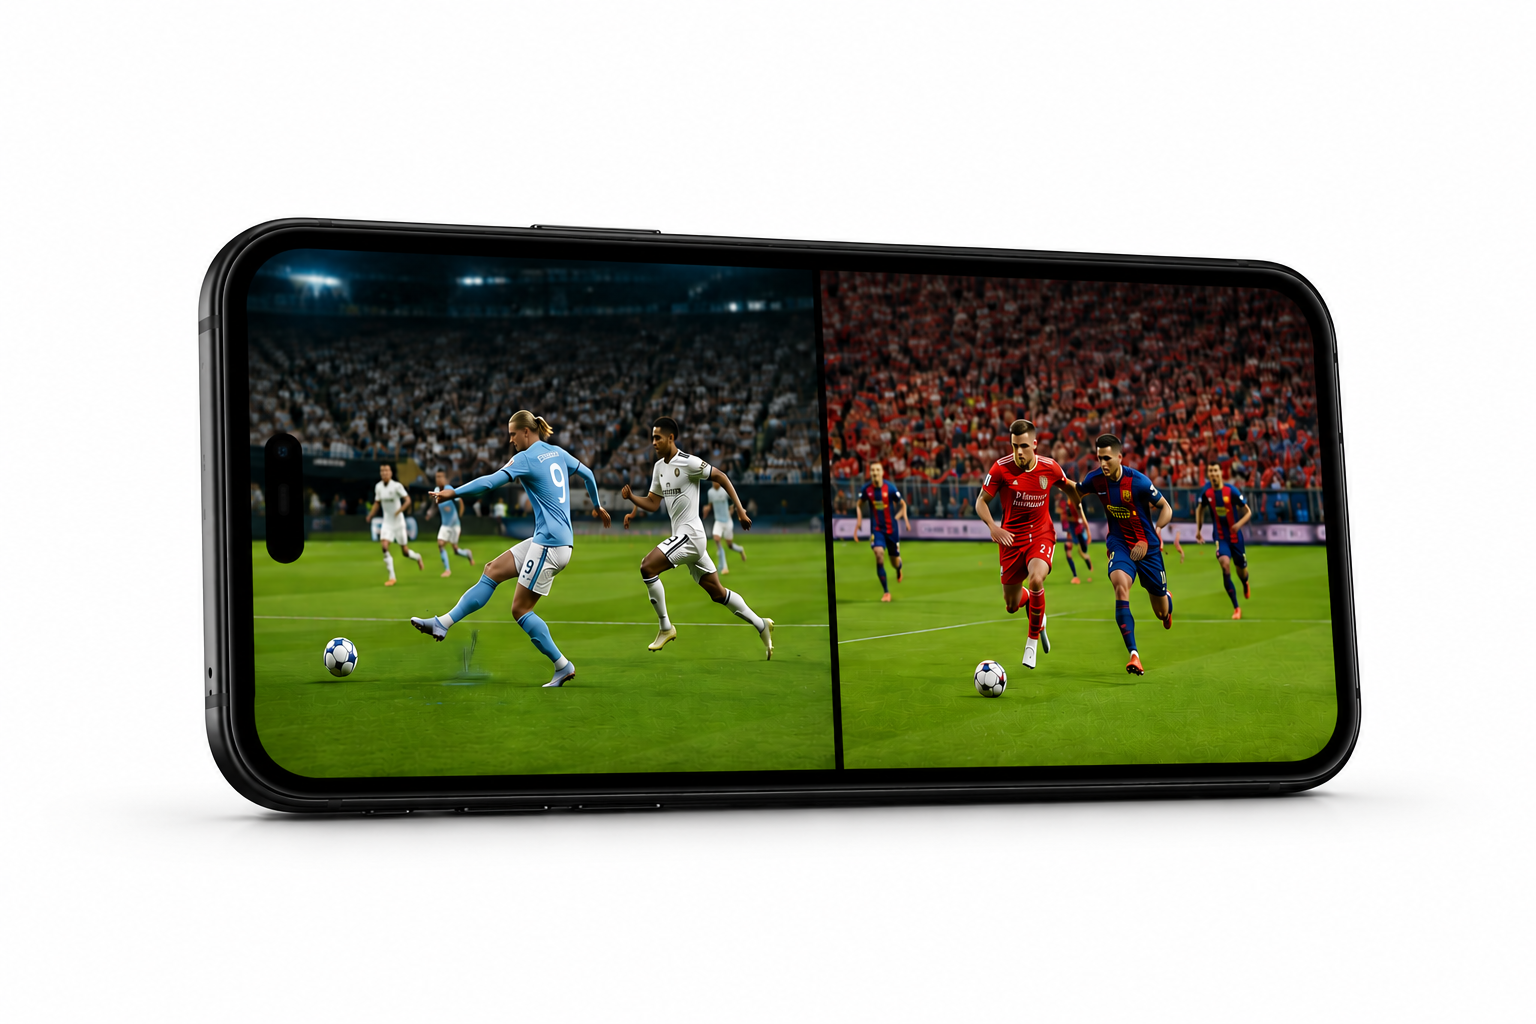
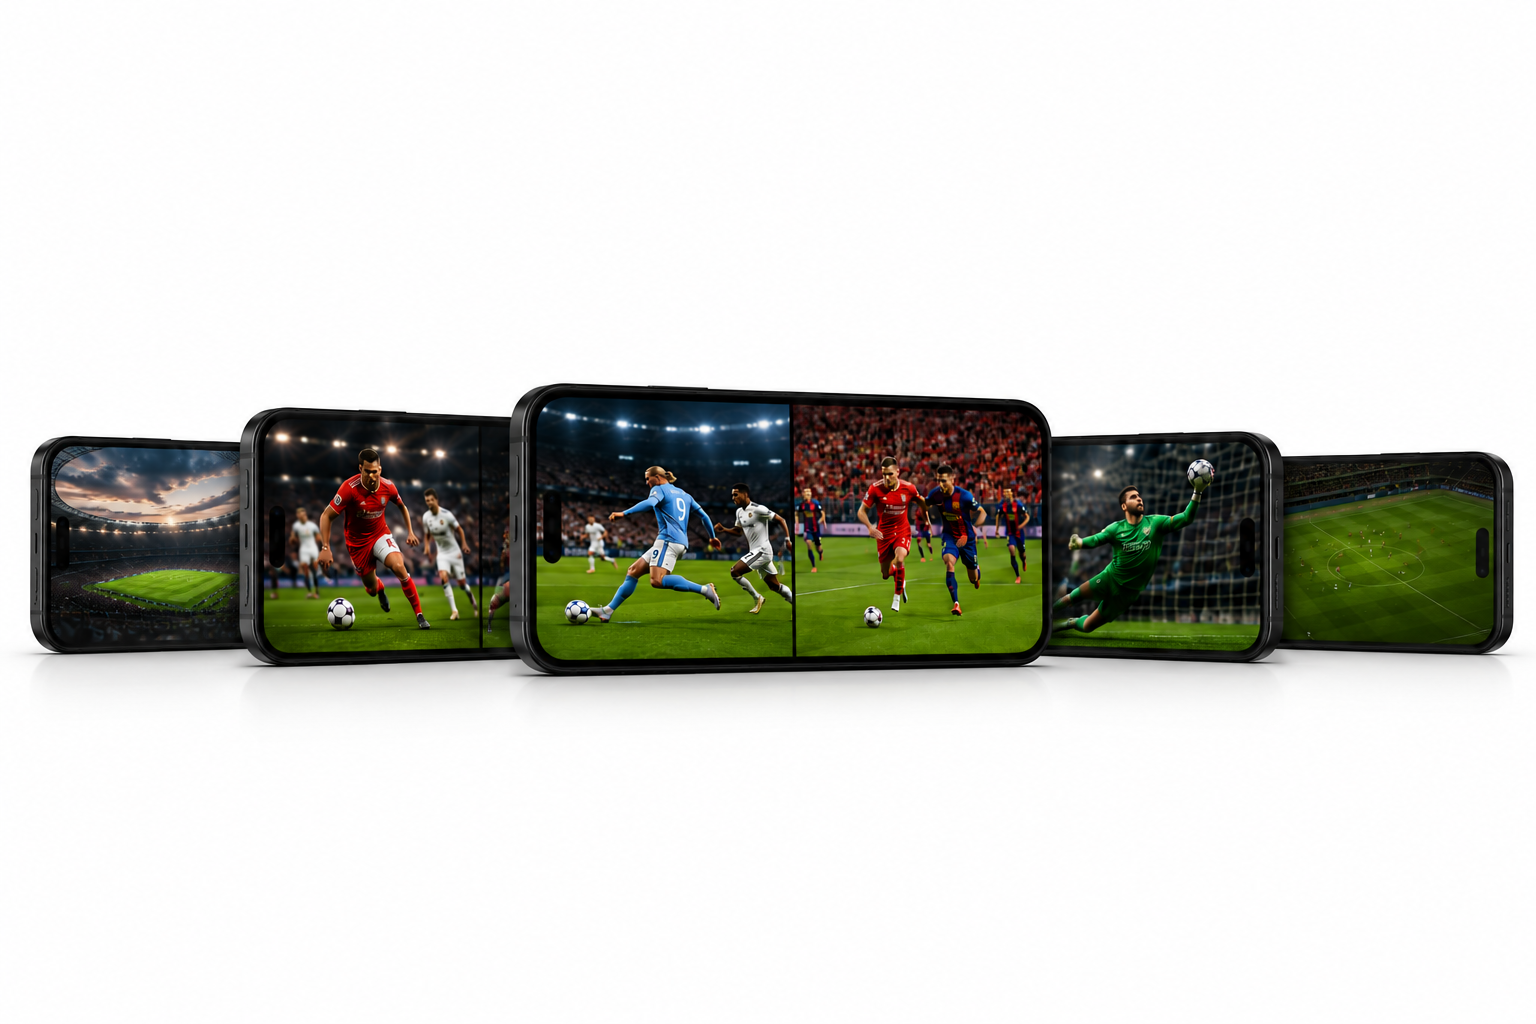
Set Multi-View desktop band to row-of-phones image at natural scale

diff --git a/index.html b/index.html
@@ -297,8 +297,10 @@
   /* Multi-View band — photo backdrop, dark text on white (horizontal for desktop) */
   .feature-band--multi-view{
     background-color: #FFFFFF;
-    background-image: none;
+    background-image: url('assets/img/multiview-desktop.png');
     background-repeat: no-repeat;
+    background-position: center calc(20% + var(--mv-shift, 0px));
+    background-size: unset;
     justify-content: flex-start;
   }
   .feature-band--multi-view h2{ color: #08090B; }
@@ -316,7 +318,7 @@
     background-color: #eaeaea;
     background-image: linear-gradient(180deg, rgba(12,22,28,0) 28%, rgba(12,22,28,0.85) 60%, #0C161C 78%), url('assets/img/faster-startup.png');
     background-size: cover;
-    background-position: center, center calc(50% + var(--fs-shift, 0px));
+    background-position: center, center calc(10% + var(--fs-shift, 0px));
     background-repeat: no-repeat;
   }
   .feature-band--faster-startup-mobile .feature-band__content{